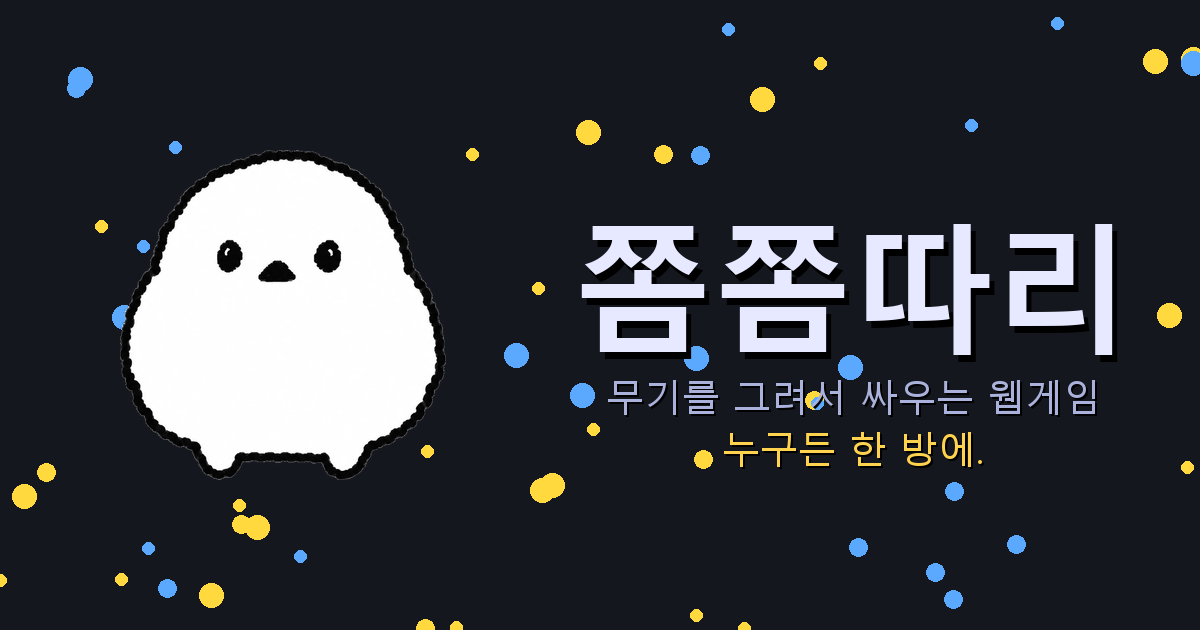
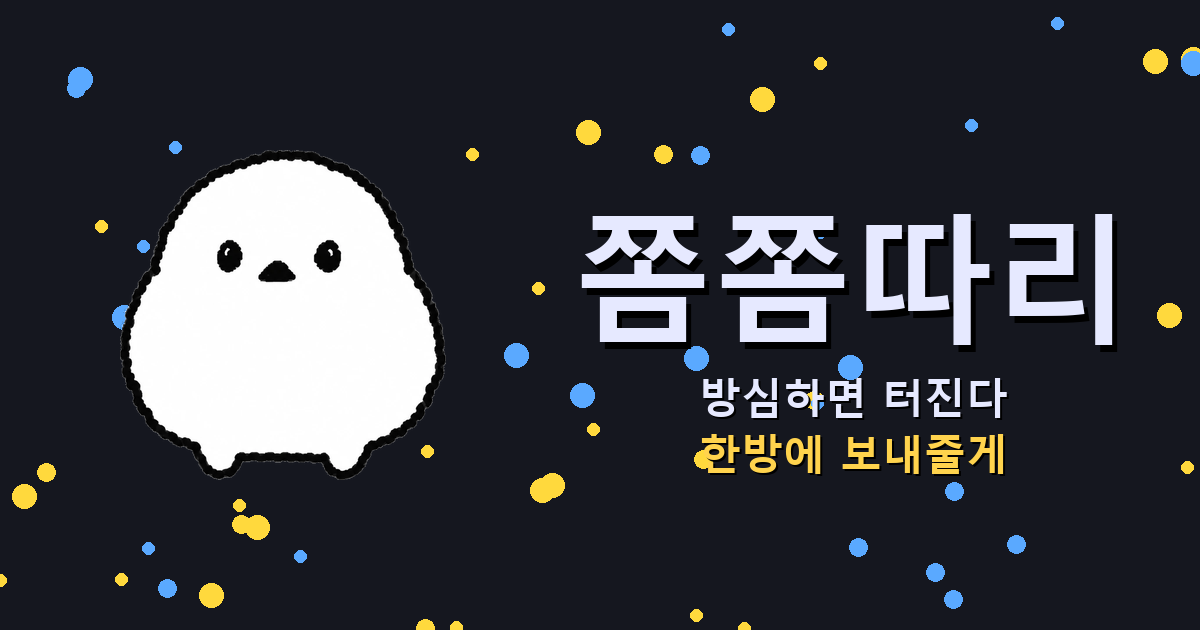
공유 문구: 방심하면 터진다 / 한방에 보내줄게

Changed region(s): [[0.4625, 0.3317, 0.9558, 0.573], [0.4933, 0.6032, 0.925, 0.754]]

diff --git a/index.html b/index.html
@@ -3,11 +3,11 @@
 <head>
 <meta charset="UTF-8">
 <meta name="viewport" content="width=device-width, initial-scale=1">
-<title>쫌쫌따리 - 무기를 그려서 싸우는 웹게임</title>
-<meta name="description" content="무기를 직접 그리고, 그 무기로 싸운다. 누구든 한 방에. 설치 없이 바로 플레이.">
+<title>쫌쫌따리 - 방심하면 터진다</title>
+<meta name="description" content="방심하면 터진다. 한방에 보내줄게. 설치 없이 바로 플레이.">
 <meta property="og:type" content="website">
 <meta property="og:title" content="쫌쫌따리">
-<meta property="og:description" content="무기를 직접 그리고, 그 무기로 싸운다. 누구든 한 방에. 설치 없이 바로 플레이.">
+<meta property="og:description" content="방심하면 터진다. 한방에 보내줄게. 설치 없이 바로 플레이.">
 <meta property="og:url" content="https://xn--v01b28fz9ra.com/">
 <meta property="og:image" content="https://xn--v01b28fz9ra.com/og.png">
 <meta property="og:image:width" content="1200">
